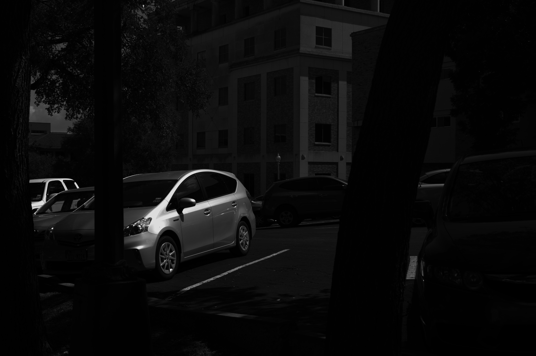
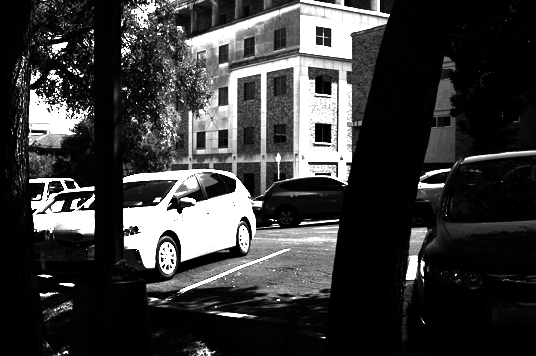
last task todo

diff --git a/lab1/eqHist.m b/lab1/eqHist.m
@@ -11,5 +11,42 @@ function imgOut = eqHist(imgIn,nLvls)
 %   imgOut - grayscale output image (NxMx1)
 
 % PLACE YOUR CODE HERE (SUBMIT THIS FILE WITH YOUR REPORT)
-
+imgIn = imread('gsimg.png');
+ht = zeros(256,3,1);
+for a = 0:255
+    count = 0;
+    for i = 1:356
+        for j = 1:length(imgIn)
+            if imgIn(i,j) == a
+               count = count + 1; 
+                
+            end
+        end
+    end
+    ht(a+1,1) = a;
+    ht(a+1,2) = count/(356*length(imgIn));
+    
 end
+
+
+figure(1)
+imhist(imgIn)
+
+%transform function
+
+for b = 1:255
+    d = 0;
+    for c = b:-1:1
+        d = d + ht(c,2);
+    end
+    ht(b,3) = 255 * d;
+end
+
+
+figure(2)
+plot(ht(:,1),ht(:,3))
+
+disp(ht)
+end
+
+

diff --git a/lab1/sRGBToGray.m b/lab1/sRGBToGray.m
@@ -26,8 +26,8 @@ for j = 1:356
         
        
         R = double(imgIn(j,k,1));
-        G = double(imgIn(j,k,2));   
-        B = double(imgIn(j,k,3));  
+        G = double(imgIn(j,k,2));  
+        B = double(imgIn(j,k,3)); 
         
         
         
@@ -39,7 +39,7 @@ for j = 1:356
         
         XYZ = M*RGB;
         
-        outim(j,k) = (XYZ(1)+XYZ(2)+XYZ(3)/3).^(1/1.8984);
+        outim(j,k) = 255*XYZ(2).^2.2; %only care about luminance and then gamma correction 
 
         
     end
@@ -47,7 +47,7 @@ for j = 1:356
     
 end
 
-imwrite(imgOut, 'gsimg.png');
+imwrite(outim, 'gsimg.png');
 
 
 outim = im2uint8(outim);

diff --git a/lab1/mkTestImage.m b/lab1/mkTestImage.m
@@ -28,8 +28,8 @@ for c = 2:2:256
     end
 end
 
-for e = 4:8:256
-    for f = 1:4
+for e = 16:32:256
+    for f = 1:16
     
     imgOut(e+f,:) = gLvl/255;
     
@@ -47,9 +47,9 @@ for ngl = 0:1:256
     index = index+1;
     if index < 256
     
-        I(index) = 255*(ngl/255).^(gamma);
-        Iy(index) = 255*(ngl/255).^(1/gamma);
-        Is(index) = 255*(ngl/255).^(2.2);
+        I(index) = (ngl/255).^(gamma);
+        Iy(index) = (ngl/255).^(1/gamma);
+        Is(index) = (ngl/255).^(2.2);
     end
 end
 
